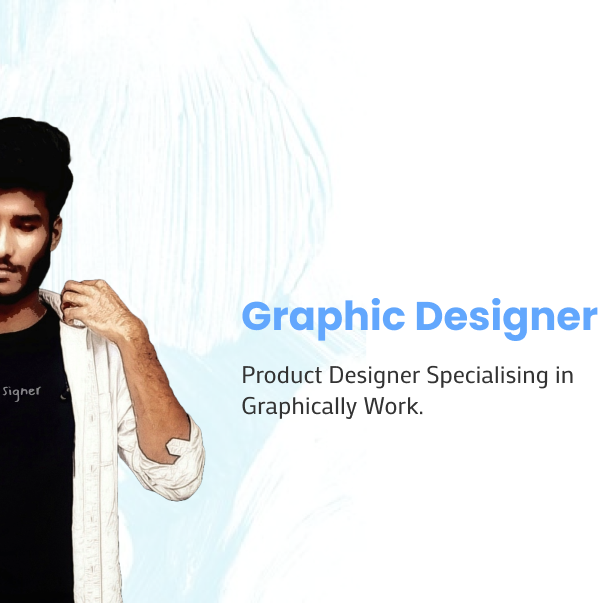
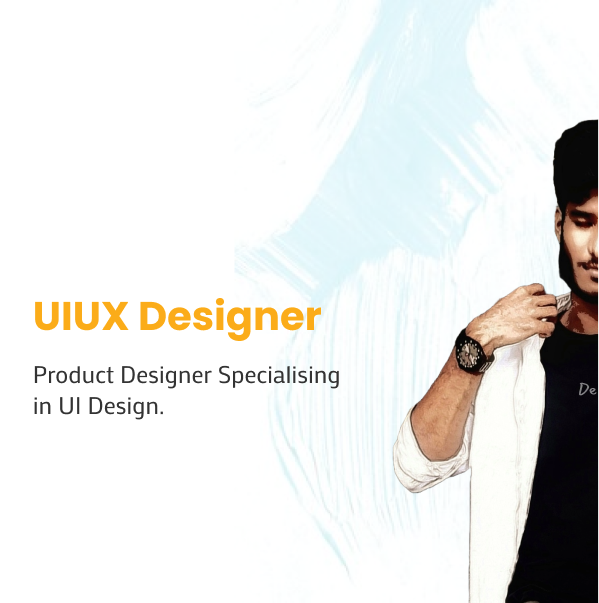
rwfvef

diff --git a/src/Components/Navbar/Navbar.jsx b/src/Components/Navbar/Navbar.jsx
@@ -29,7 +29,7 @@ const Navbar = () => {
             <ul className="navbar-nav ms-auto me-auto d-flex justify-content-center align-items-center">
               <li className="nav-item">
                 <Link
-                  className="nav-link mx-3 text-light active"
+                  className="nav-link mx-4 text-light active"
                   aria-current="page"
                   to=""
                 >
@@ -37,12 +37,12 @@ const Navbar = () => {
                 </Link>
               </li>
               <li className="nav-item">
-                <Link className="nav-link mx-3 text-light" to="">
+                <Link className="nav-link mx-4 text-light" to="">
                   Capstones
                 </Link>
               </li>
               <li className="nav-item">
-                <Link className="nav-link mx-3 text-light" to="">
+                <Link className="nav-link mx-2 text-light" to="">
                   Contact
                 </Link>
               </li>
@@ -50,8 +50,8 @@ const Navbar = () => {
           </div>
           <div className="contactus-link">
             <div className="">
-              <img className=" mx-4" src={Linkedin} alt="" />
-              <img className="mx-3" src={Behance} alt="" />
+              <img className=" mx-3" src={Linkedin} alt="" />
+              <img className="mx-2" src={Behance} alt="" />
             </div>
           </div>
         </div>

diff --git a/src/Components/Home/Home.jsx b/src/Components/Home/Home.jsx
@@ -2,6 +2,8 @@ import React from "react";
 import Navbar from "../Navbar/Navbar";
 import "./Home.css";
 import img1 from "../../Asserts/img1.png";
+import img2 from "../../Asserts/img2.png";
+import img3 from "../../Asserts/img3.png";
 import Footer from "../Footer/Footer";
 
 const Home = () => {
@@ -35,19 +37,19 @@ const Home = () => {
 
               <div className="inline-card pt-4 pb-2">
                 <div className="blue-wrapper">
-                  <img src={img1} alt="" />
+                  <img src={img2} alt="" />
                 </div>
 
-                <h3 className="ico">ICO Landing Page</h3>
+                <h3 className="ico">P2P Landing Page</h3>
                 <p className="para">Website Design</p>
               </div>
 
               <div className="inline-card pt-4 pb-2">
                 <div className="blue-wrapper">
-                  <img src={img1} alt="" />
+                  <img src={img3} alt="" />
                 </div>
 
-                <h3 className="ico">ICO Landing Page</h3>
+                <h3 className="ico">Crypto Hub</h3>
                 <p className="para">Website Design</p>
               </div>
             </div>

diff --git a/src/Components/Home/Home.css b/src/Components/Home/Home.css
@@ -10,23 +10,23 @@
 
 .right-wrapper-home,
 .left-wrapper-home {
-  background-size: contain;
+  background-size: cover;
   background-repeat: no-repeat;
   background-position: center;
   padding: 0;
-  height: 603px;
+  height: 530px;
   opacity: 0; /* Initial hidden state for animation */
 }
 
 .left-wrapper-home {
-  width: 38%;
-  background-image: url("../../Asserts/Rig.png");
+  width: 592.12px;
+  background-image: url("../../Asserts/Lef.png");
   animation: slideInLeft 1.5s ease forwards; /* Animation applied */
 }
 
 .right-wrapper-home {
-  width: 40%;
-  background-image: url("../../Asserts/Lef.png");
+  width:592.12px;
+  background-image: url("../../Asserts/Rig.png");
   animation: slideInRight 1.5s ease forwards; /* Animation applied */
 }
 
@@ -73,7 +73,7 @@
   font-family: "Mako", sans-serif;
   font-weight: 400;
   font-style: normal;
-  font-size: 28px;
+  font-size: 28px !important;
   line-height: 37px;
   color: var(--Tcolor);
 }

diff --git a/src/Components/Footer/Footer.jsx b/src/Components/Footer/Footer.jsx
@@ -7,12 +7,12 @@ const Footer = () => {
       <div className="line-full"></div>
       <div className="container flex-div d-flex justify-content-between align-items-center">
         <div className="rights">
-          <p className="latest">© 2024 Jayan. All Rights Reserved.</p>
+          <p className="latesty">© 2024 Jayan. All Rights Reserved.</p>
         </div>
         <div className="navs d-flex justify-content-center gap-5">
-          <p className="latest">About</p>
-          <p className="latest">Capstone</p>
-          <p className="latest">Contact</p>
+          <p className="latesty">About</p>
+          <p className="latesty">Capstone</p>
+          <p className="latesty">Contact</p>
         </div>
       </div>
     </div>

diff --git a/src/Components/Navbar/Navbar.css b/src/Components/Navbar/Navbar.css
@@ -1,7 +1,8 @@
+@import url("https://fonts.googleapis.com/css2?family=Mako&display=swap");
 @import url("https://fonts.googleapis.com/css2?family=Poppins:ital,wght@0,100;0,200;0,300;0,400;0,500;0,600;0,700;0,800;0,900;1,100;1,200;1,300;1,400;1,500;1,600;1,700;1,800;1,900&display=swap");
 
 .navbar {
-  font-family: "Poppins", sans-serif;
+  font-family: "Mako", sans-serif;
   font-weight: 400;
   font-style: normal;
   font-size: 16px;

diff --git a/src/Components/Footer/Footer.css b/src/Components/Footer/Footer.css
@@ -1,7 +1,7 @@
 @import url("https://fonts.googleapis.com/css2?family=Mako&display=swap");
 @import url("https://fonts.googleapis.com/css2?family=Poppins:ital,wght@0,100;0,200;0,300;0,400;0,500;0,600;0,700;0,800;0,900;1,100;1,200;1,300;1,400;1,500;1,600;1,700;1,800;1,900&display=swap");
 
-.latest {
+.latesty {
   font-family: "Mako", sans-serif;
   font-weight: 400;
   font-style: normal;
